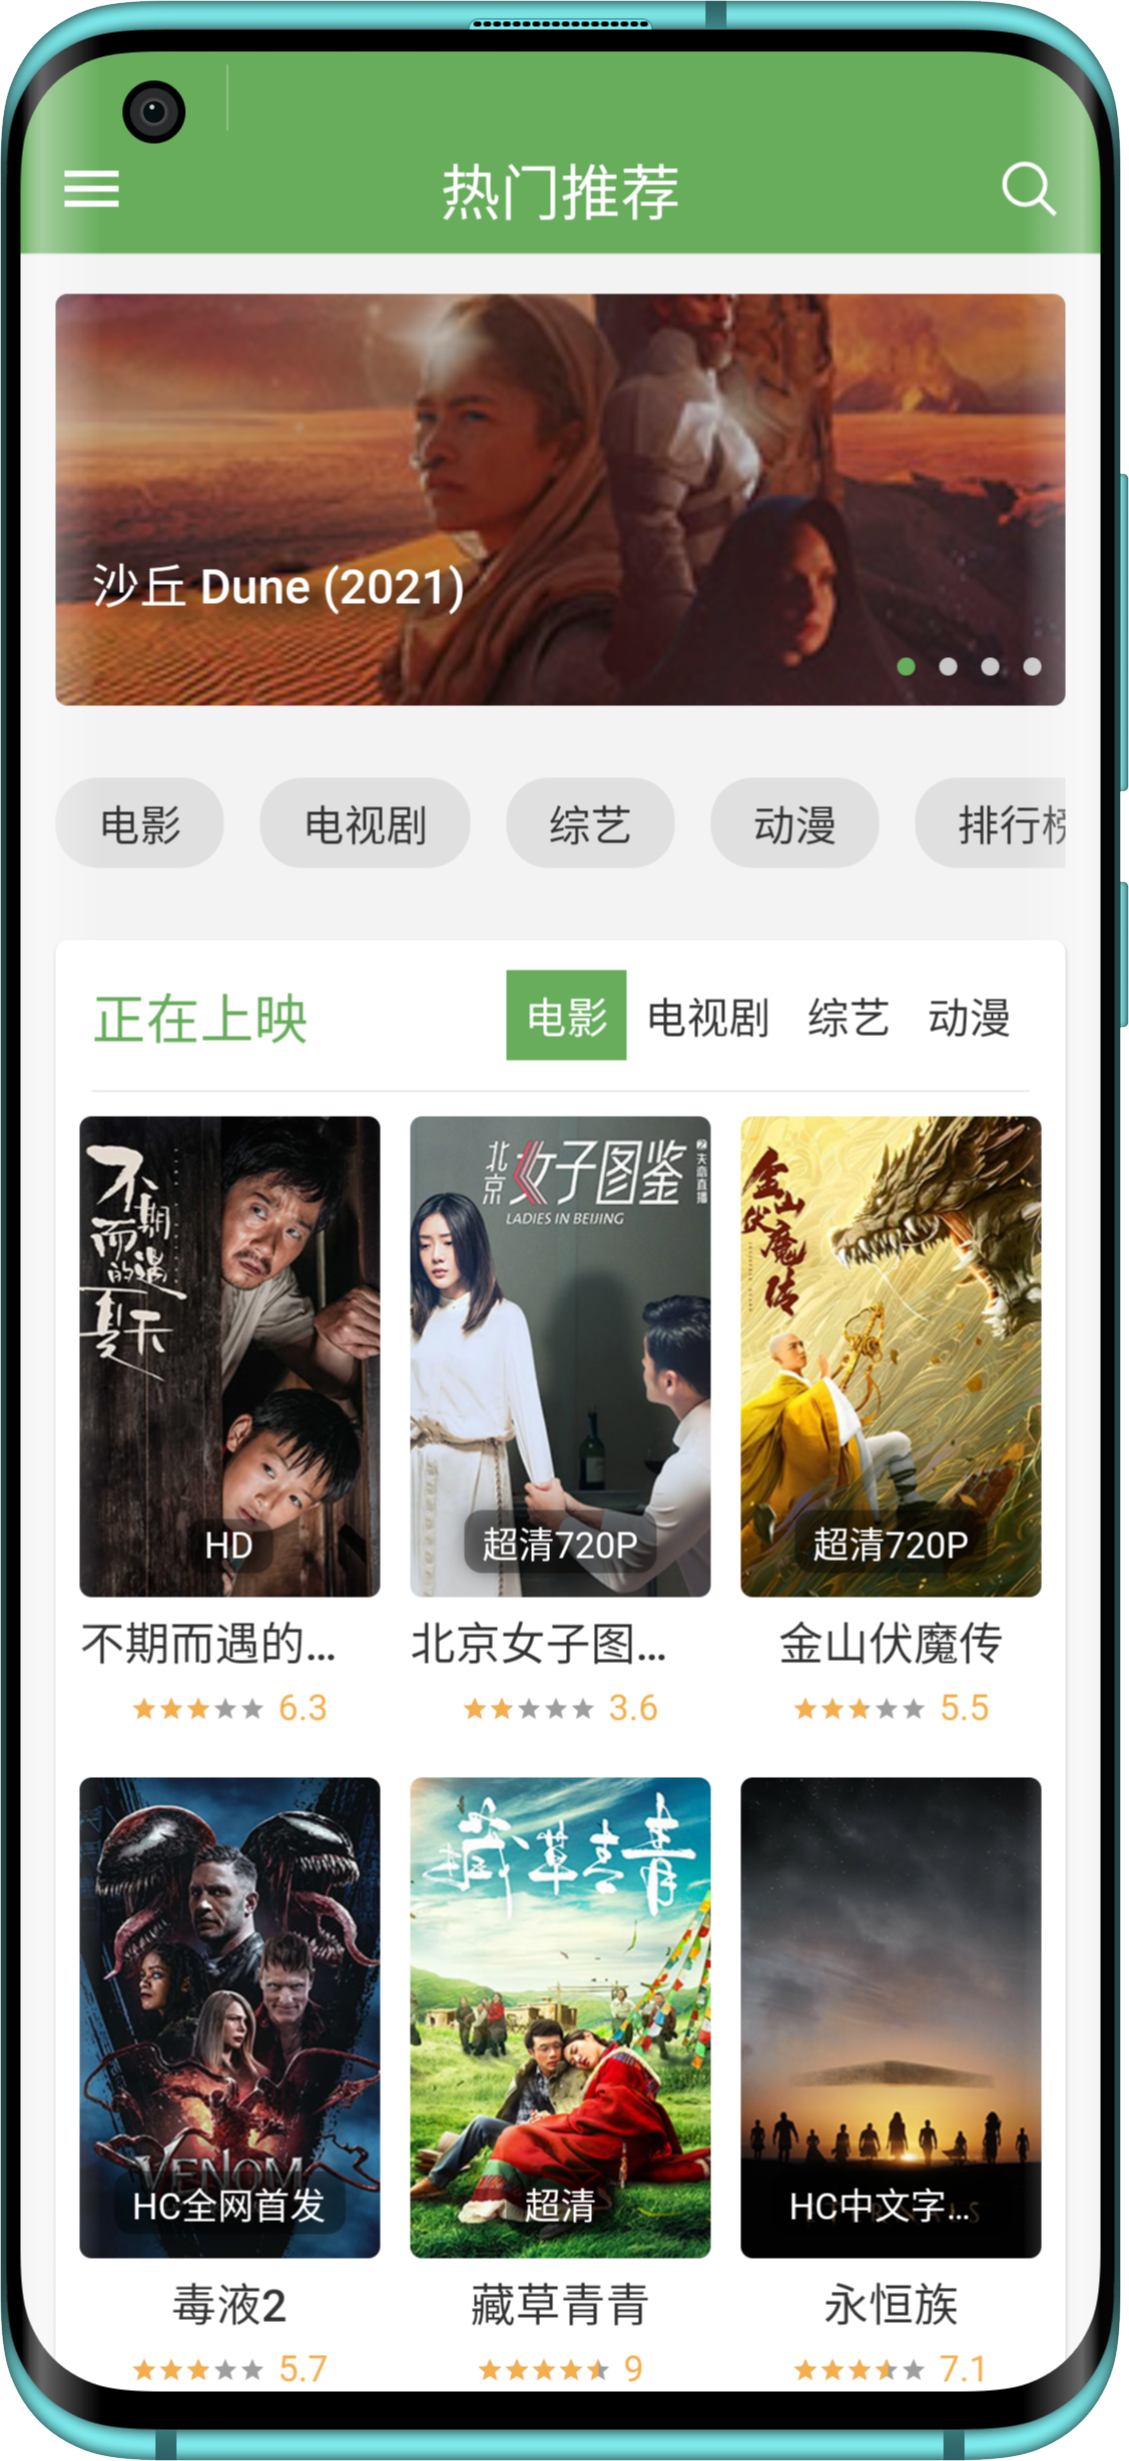
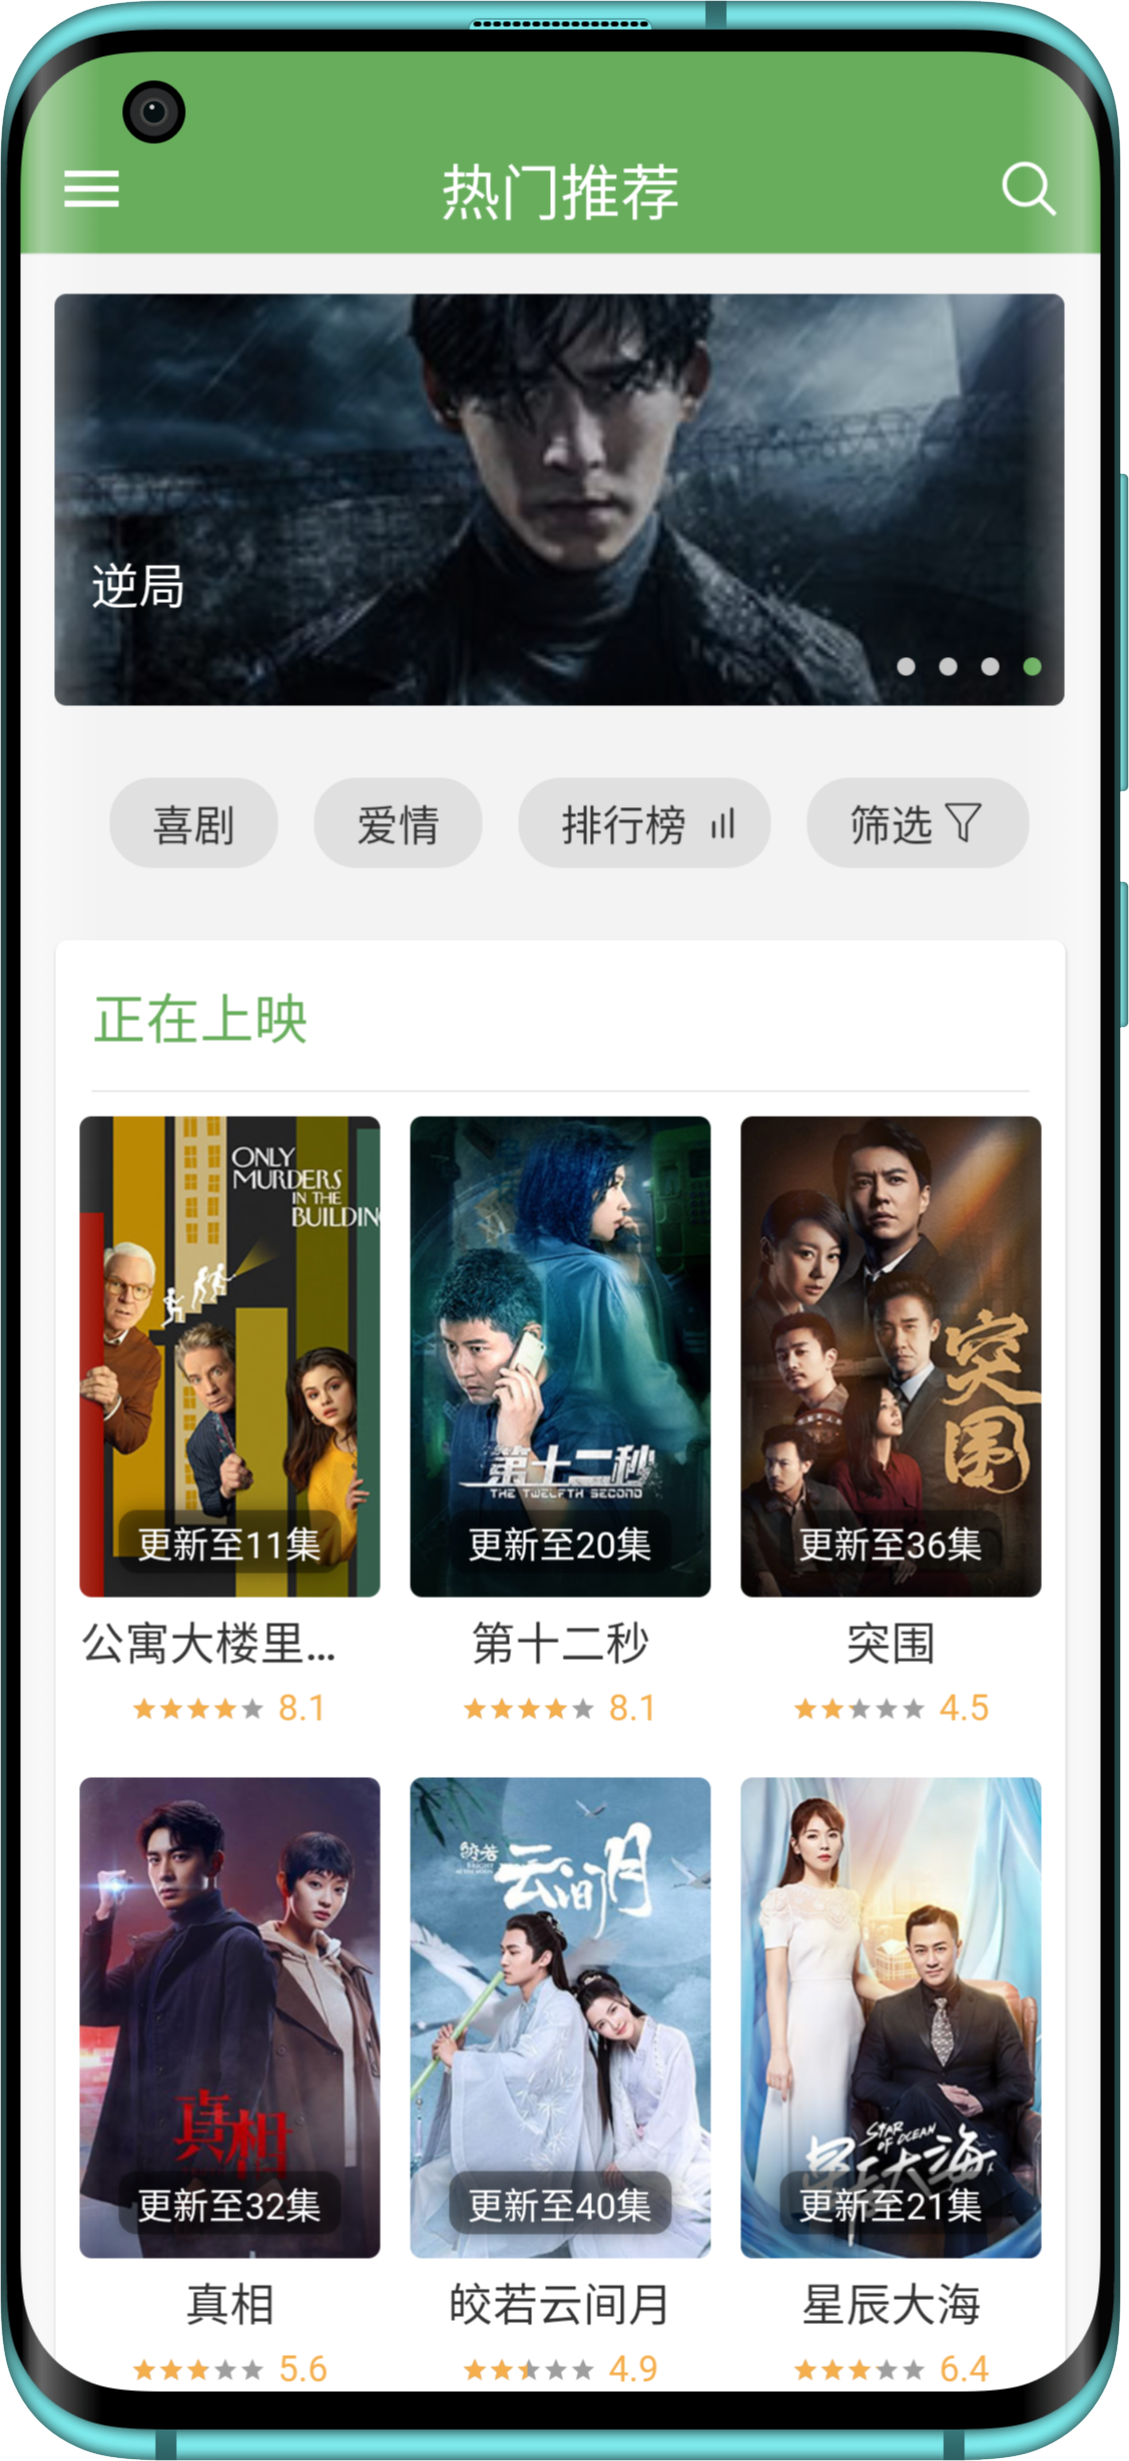
新建文件

diff --git a/support_dianshiju/index.html b/support_dianshiju/index.html
@@ -21,7 +21,7 @@
     <link rel="stylesheet" type="text/css" href="css/bootstrap.min.css" />
     <link rel="stylesheet" type="text/css" href="css/global.css" />
     <link rel="stylesheet" type="text/css" href="css/base.css" />
-    <title>柠檬影院</title>
+    <title>柠檬电视剧</title>
 </head>
 
 <body>
@@ -33,7 +33,7 @@
             <p style="font-size: 20px;padding-bottom: 10px;">应用介绍</p>
             <div class="dsp margin-bottom60">
                 <section>
-                    柠檬影院每天为您更新高清电影、电视剧、综艺、日韩动漫等。
+                    “柠檬电视剧”每天更新好看的大陆剧、港台剧、日韩剧、欧美剧、泰剧等各类内容丰富的视频。
                 </section>
             </div>
         </div>

diff --git a/support_dianshiju/privacypolicy.html b/support_dianshiju/privacypolicy.html
@@ -31,7 +31,7 @@
   </style>
   <meta data-vue-meta="true" data-vmid="keywords" name="keywords" content="每日热读" />
   <meta data-vue-meta="true" data-vmid="description" name="description" content="本软件尊重并保护所有使用服务用户的个人隐私权。为了给您提供更准确、更有个性化的服务，本软件会按照本隐私权政策的规定使用和披露您的个人信息。但本软件将以高度的勤勉、审慎义务对待这些信息。除本隐私权政策另有规定外，在未征得您事先许可的情况下，本软件不会将这些信息对" />
-  <title data-vue-meta="true">柠檬影院 隐私政策</title>
+  <title data-vue-meta="true">柠檬电视剧 隐私政策</title>
 </head>
 
 <body>
